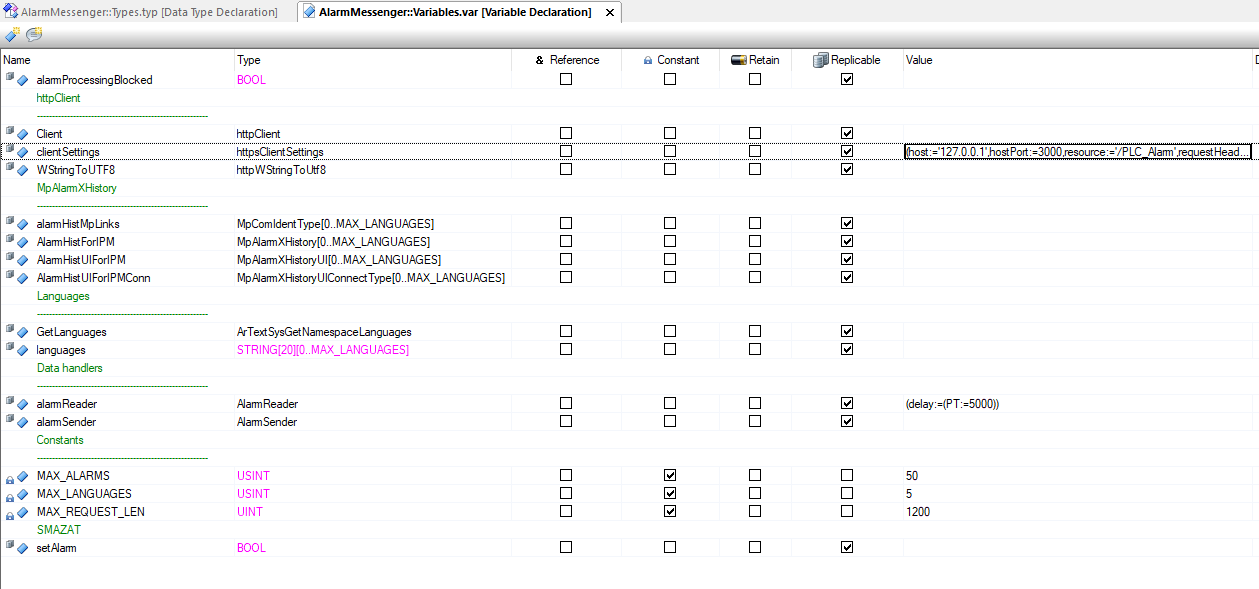
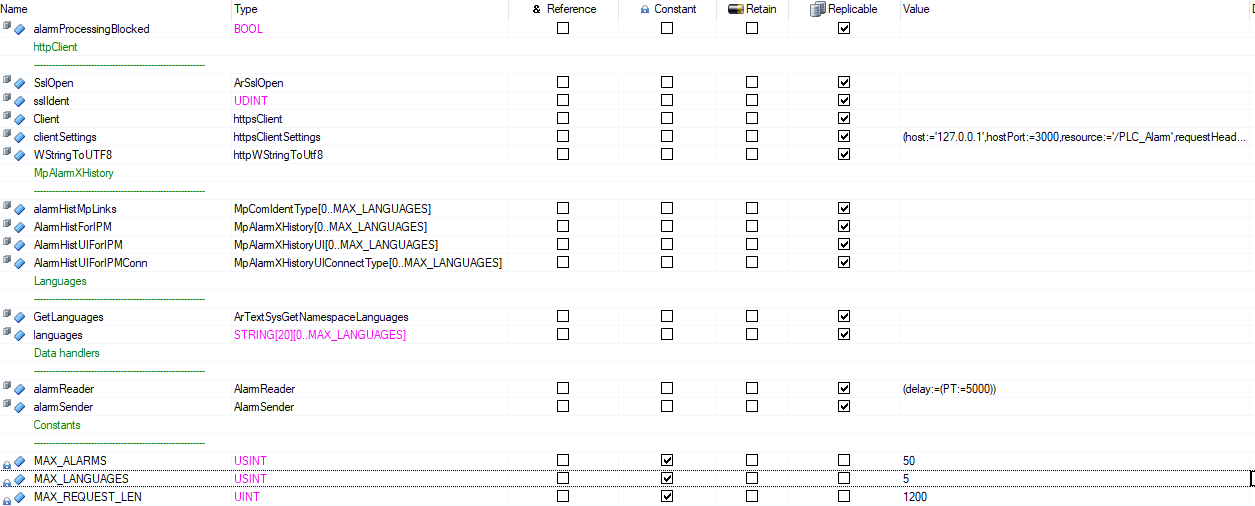
Update AlarmSync docu with https version

diff --git a/docs/Ipm/IpmAlarmInterface.md b/docs/Ipm/IpmAlarmInterface.md
@@ -1,22 +1,33 @@
 # Alarm sending from PLC to IPM
 
 ## Description
-The main idea of the alarm reader is that we use one general structure for collecting alarms in different language versions and sending them to an HTTP server. These alarms are stored in a unified format, eliminating the need for custom programming to adjust the core functionality.
+The main idea of the alarm reader is that we use one general structure for collecting alarms in different language versions and sending them to an HTTPS server. These alarms are stored in a unified format, eliminating the need for custom programming to adjust the core functionality.
 
 ## Implemetation
 - The source codes are available for download at the end of the documentation.
 ### Configuration View
 - Add the configuration file **.mpAlarmXHistory** to the project.
 - Ensure the number of elements in this configuration matches the **maximum number of languages** used in the program variables.
+
     <img src="sources/AlarmSynConfView.png" alt="Configuration View">
+
 - The settings for all elements should be the same as shown in the image below:
+
     <img src="sources/AlarmSynConfViewSettings.png" alt="Element settings">
- - Insert the program into **CPU.sw**, to the same **Cyclic** as **AlarmCore**.
+
+- Insert the program into **CPU.sw**, to the same **Cyclic** as **AlarmCore**.
+
     <img src="sources/CpuSW.png" alt="Cpu.sw">
+
+- Create an SSL configuration and add certificates to the connection.
+
+	<img src="sources/SSLfolder.png" alt="SslFolder">
+	<img src="sources/SSLConfig.png" alt="SslConfig">
 
 ### Logical view
  - Copy the program into the **Logical View** of the project.
-    <img src="sources/PrgInserting.png" alt="Program">
+
+	<img src="sources/PrgInserting.png" alt="Program">
 
 ## Description of the data types and variables
 ### Data types
@@ -37,7 +48,7 @@ The main idea of the alarm reader is that we use one general structure for colle
 - Handles the request structure and keeps track of the current alarm being transmitted.
 
 **httpsClientSettings**
-- Configures HTTP(S) client settings.
+- Configures HTTPS client settings.
 - Defines server details, API endpoint, and response handling.
 
 <img src="sources/DataTypes.png" alt="Data types">
@@ -47,11 +58,17 @@ The main idea of the alarm reader is that we use one general structure for colle
 - Indicates whether alarm processing is currently blocked.
 - By default, sending is blocked after the PLC starts until the first acknowledgment is pressed.
 
+**SslOpen**
+- Loads SSL configuration ident.
+
+**sslIdent**
+- Stores ssl ident
+
 **Client**
-- Defines the HTTP client instance with server settings, including host, port, and resource.
+- Defines the HTTPS client instance with server settings, including host, port, and resource.
 
 **clientSettings**
-- Stores the configuration settings for the HTTP client.
+- Stores the configuration settings for the HTTPS client.
     <img src="sources/ClientSet.png" alt="Client">
 
 **WStringToUTF8**
@@ -148,12 +165,22 @@ The main idea of the alarm reader is that we use one general structure for colle
 		}	
 	```
 
+- Get the **sslIdent**
+??? example "Getting sslIdent"
+	``` c
+		SslOpen.Execute = true;
+		brsstrcpy((UDINT) SslOpen.Name, (UDINT) "IPM_AlarmTLS");
+		ArSslOpen(&SslOpen);
+		sslIdent = SslOpen.Ident;
+	```
+
 - The **httpsClient** settings are initialized.  
 
 ??? example "Setting httpClient"
 	``` c
 		Client.method 			= httpMETHOD_POST;
 		Client.option 			= httpOPTION_HTTP_11;
+		Client.sslCfgIdent		= sslIdent;
 		Client.pHost 			= &clientSettings.host;
 		Client.hostPort			= clientSettings.hostPort;
 		Client.pUri 			= &clientSettings.resource;
@@ -330,6 +357,20 @@ The program consists of two step-based state machines:
 ## Testing
 - To test alarm sending, you can use the **Mockoon** software: 
 https://mockoon.com/download/
+
+## Project-Specific Adjustments
+### Change the Server IP Address (or port) for Sending Alarms
+- To change the server IP address, we need to update the **clientSettings.host** and **clientSettings.requestHeader.host** variables.
+- To change the server port, we need to update the **clientSettings.hostPort**.
+
+### Changing the Number of Languages
+1. Add Additional Elements in **.mpAlarmXHistory**
+2. Change the Variable **MAX_LANGUAGES**
+3. Connect New Elements to **alarmHistMpLinks** in the **INIT** Section
+
+### Change of Certificates
+- We will request the cellInterfaceService certificates for the current project from the IPM team.
+- Then, we will replace the existing certificates in the template with the updated ones.
 
 ## Source code
 Complete source code for download (After clicking, it takes a moment before the download starts):
